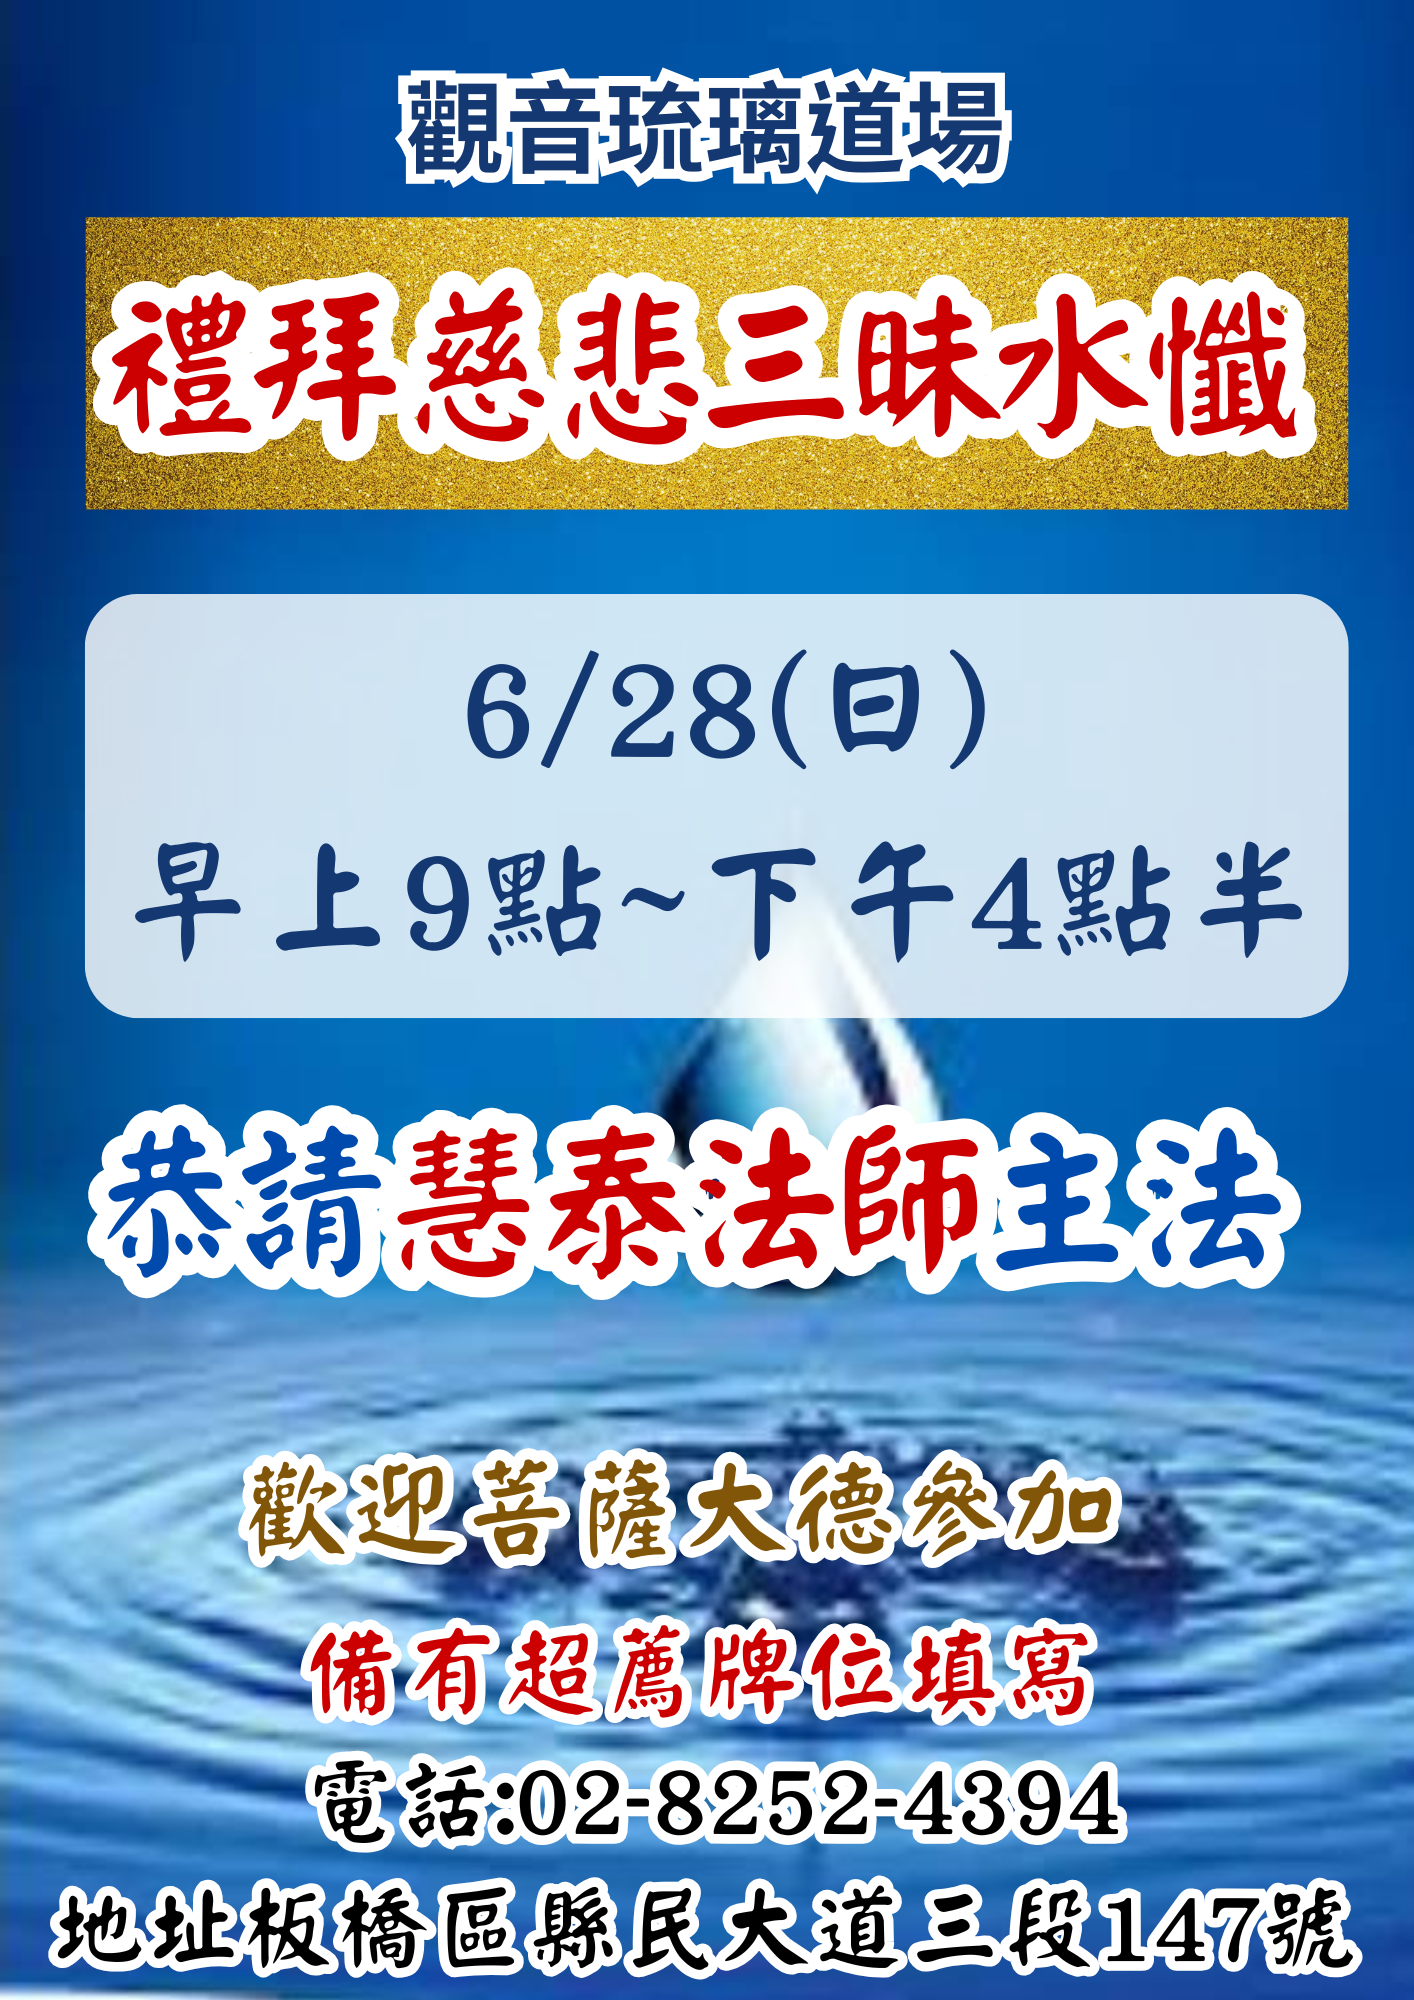
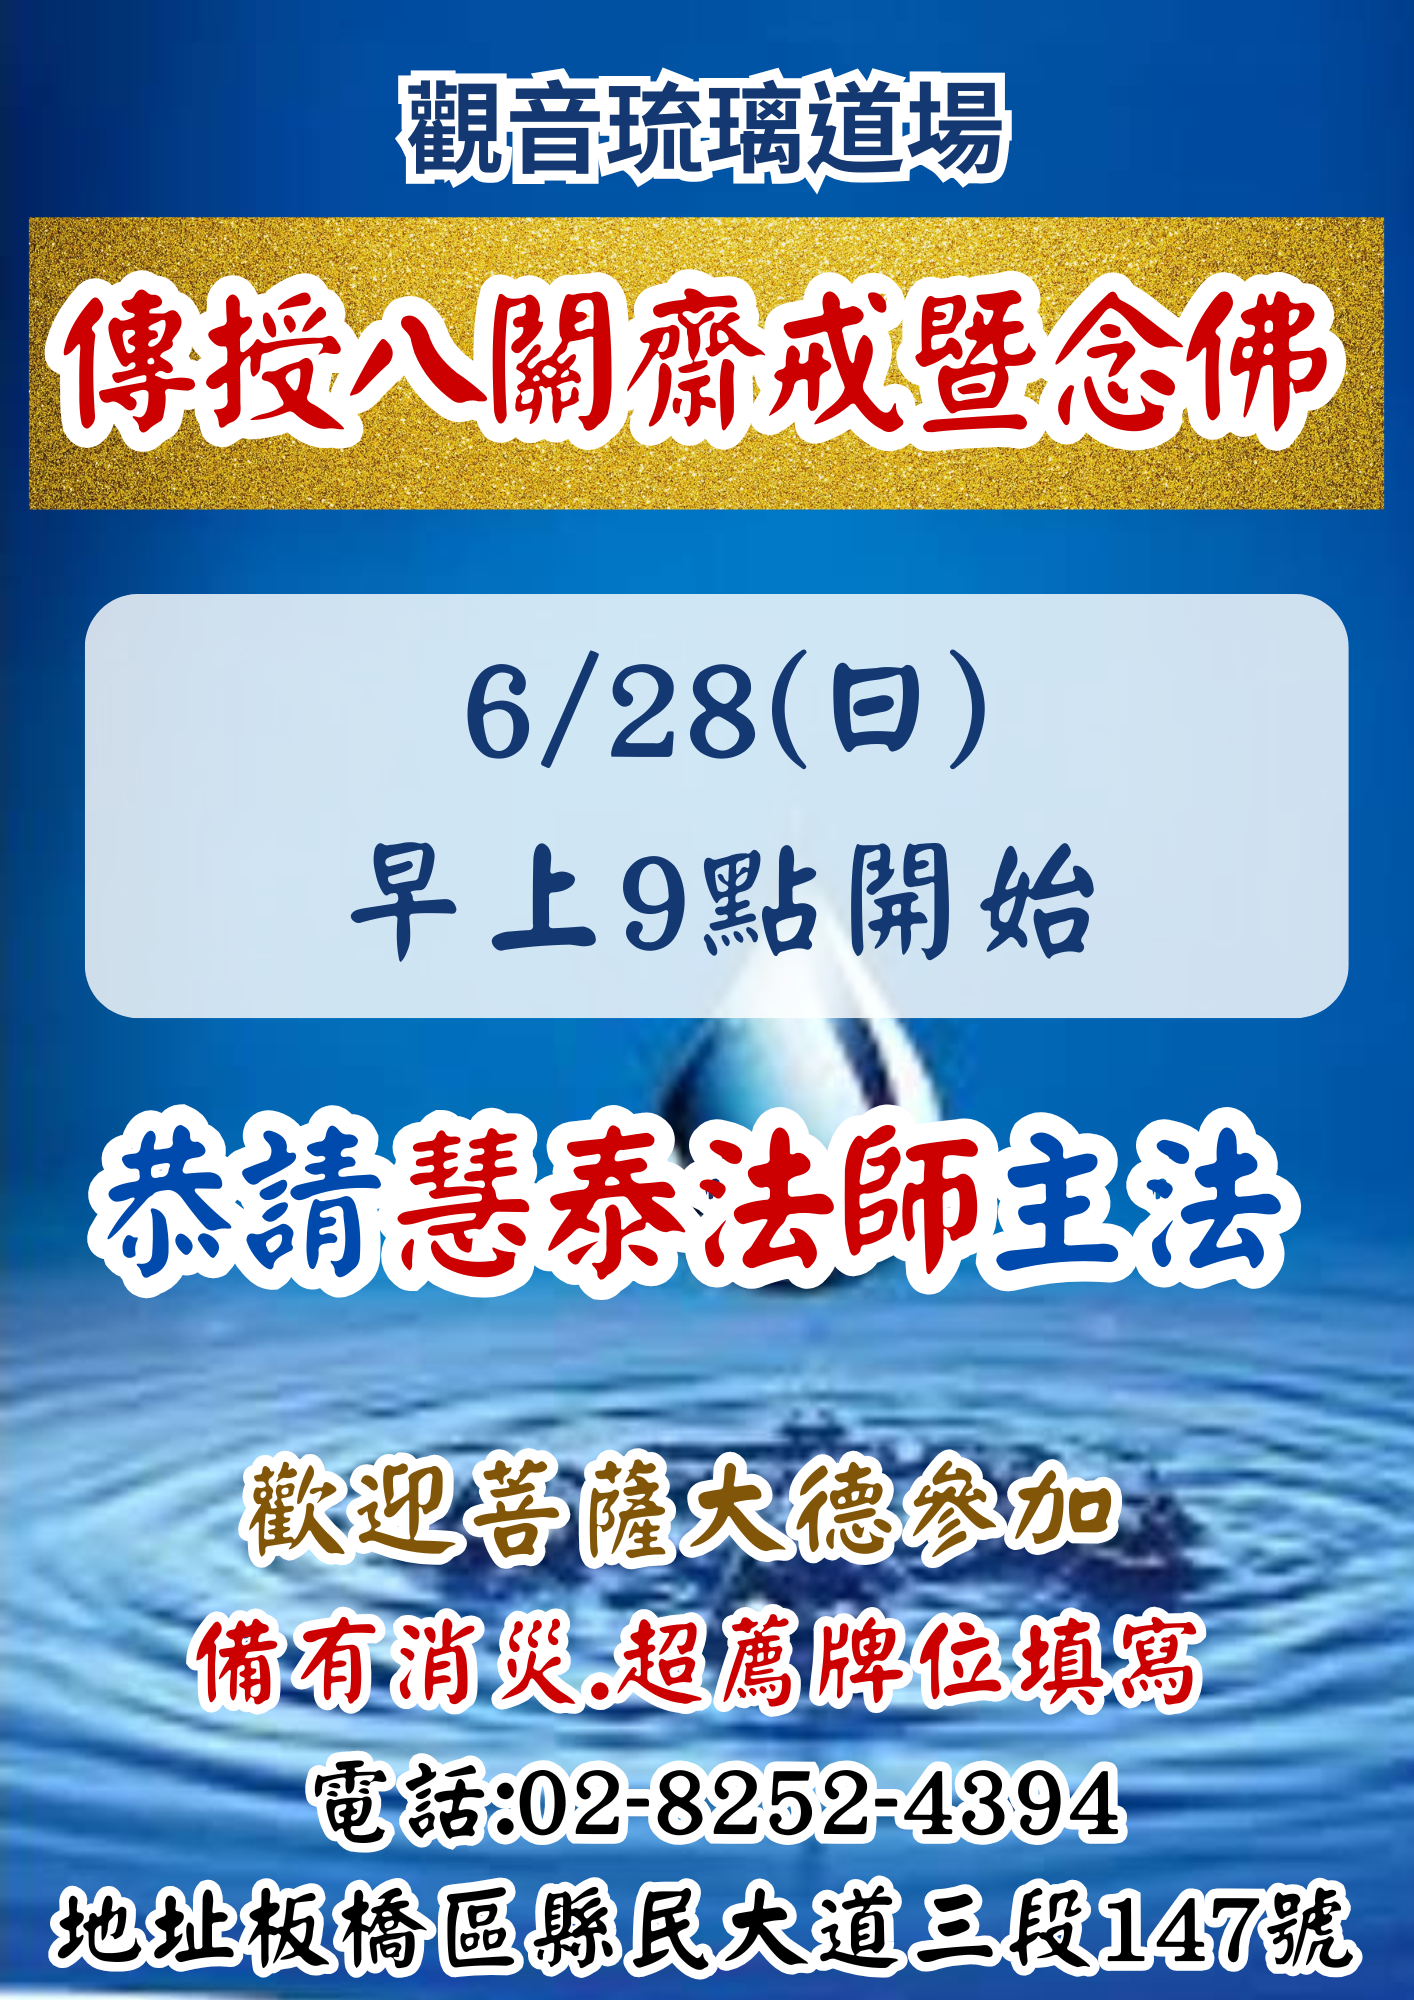
改快訊內容及新增法會海報

diff --git a/index.html b/index.html
@@ -242,8 +242,8 @@ nav{display:none}
 
 <div class="topbar">
   <div class="topbar-track">
-    <a class="topbar-link topbar-signup" href="#">快訊｜<span class="topbar-time">4/6(一)早上9點</span> 慶祝觀世音菩薩聖誕，特舉辦【禮拜八十八洪名寶懺】。(備有消災祈福祿位)，歡迎十方信眾報名參加！</a>
-    <a class="topbar-link topbar-signup" href="#" aria-hidden="true">快訊｜<span class="topbar-time">4/6(一)早上9點</span> 慶祝觀世音菩薩聖誕，特舉辦【禮拜八十八洪名寶懺】。(備有消災祈福祿位)，歡迎十方信眾報名參加！</a>
+    <a class="topbar-link topbar-signup" href="#">快訊｜<span class="topbar-time">4/6(一)早上9點</span> 慶祝觀世音菩薩聖誕，特舉辦【禮拜八十八佛洪名寶懺】。(備有消災祈福祿位)，歡迎十方信眾報名參加！</a>
+    <a class="topbar-link topbar-signup" href="#" aria-hidden="true">快訊｜<span class="topbar-time">4/6(一)早上9點</span> 慶祝觀世音菩薩聖誕，特舉辦【禮拜八十八佛洪名寶懺】。(備有消災祈福祿位)，歡迎十方信眾報名參加！</a>
   </div>
   <div class="topbar-note">快訊可以點擊</div>
 </div>
@@ -581,8 +581,9 @@ const events={
   "2026-03-19":"農曆二月初一共修藥師經暨佛前大供與放生 早上9點",
   "2026-03-29":"清明孝親報恩法會 舉辦冥陽兩利三時繫念大法會 下午1點半(備有超薦牌位)",
   "2026-04-06":"慶祝觀世音菩薩聖誕 舉辦禮拜八十八佛洪名寶懺 早上9點(備有消災祈福牌位)",
+  "2026-05-10":"禮拜慈悲藥師寶懺 早上9點(備有消災超薦牌位)",
   "2026-05-31":"浴佛節冥陽兩利三時繫念大法會 下午1點半(備有超薦牌位)",
-  "2026-06-28":"慈悲三昧水懺 早上9點至下午4點半(備有消災及超薦牌位)",
+  "2026-06-28":"傳授八關齋戒暨念佛 早上9點開始(備有消災及超薦牌位)",
   "2026-08-01":"觀世音菩薩成道日 禮拜八十八佛洪名寶懺 早上9點(備有消災牌位)",
   "2026-08-02":"中元普渡瑜伽焰口法會 下午2點(備有超薦牌位)",
   "2026-09-13":"慈悲地藏寶懺 早上9點至下午4點半(備有消災及超薦牌位)",
@@ -591,7 +592,7 @@ const events={
   "2026-12-13":"瑜伽焰口法會 下午2點(備有超薦牌位)"
 };
 const recurringEvents={
-  "2026-04-02":"【農曆十五】恭誦佛說阿彌陀經 念佛 繞佛 靜坐 佛前大供暨放生 早上9點","2026-04-17":"共修早上9點","2026-05-01":"共修早上9點","2026-05-17":"共修早上9點","2026-05-31":"共修早上9點","2026-06-15":"共修早上9點","2026-06-29":"共修早上9點","2026-07-14":"共修早上9點","2026-07-28":"共修早上9點","2026-08-13":"共修早上9點","2026-08-27":"共修早上9點","2026-09-11":"共修早上9點","2026-09-25":"共修早上9點","2026-10-10":"共修早上9點","2026-10-24":"共修早上9點","2026-11-09":"共修早上9點","2026-11-23":"共修早上9點","2026-12-09":"共修早上9點","2026-12-23":"共修早上9點"
+  "2026-04-02":"【農曆十五】恭誦佛說阿彌陀經 念佛 繞佛 靜坐 佛前大供暨放生 早上9點","2026-04-17":"共修早上9點","2026-05-01":"共修早上9點","2026-05-17":"共修早上9點","2026-06-15":"共修早上9點","2026-06-29":"共修早上9點","2026-07-14":"共修早上9點","2026-07-28":"共修早上9點","2026-08-13":"共修早上9點","2026-08-27":"共修早上9點","2026-09-11":"共修早上9點","2026-09-25":"共修早上9點","2026-10-10":"共修早上9點","2026-10-24":"共修早上9點","2026-11-09":"共修早上9點","2026-11-23":"共修早上9點","2026-12-09":"共修早上9點","2026-12-23":"共修早上9點"
 };
 let current=new Date(2026,2,1);
 const monthParam = getQueryParam('month');

diff --git a/event-signup.html b/event-signup.html
@@ -1,4 +1,4 @@
-<!DOCTYPE html>
+<!DOCTYPE html>
 <html lang="zh-Hant">
 <head>
 <meta charset="UTF-8">
@@ -55,8 +55,8 @@ footer{background:#1f5ea8;color:#fff;text-align:center;padding:28px}
 <body>
 <div class="topbar">
   <div class="topbar-track">
-    <a class="topbar-link topbar-signup" href="#">快訊｜<span class="topbar-time">3/29(日)下午1點半</span> 清明孝親報恩，【冥陽兩利三時繫念大法會】。(備有超薦牌位)，歡迎十方信眾報名參加！</a>
-    <a class="topbar-link topbar-signup" href="#" aria-hidden="true">快訊｜<span class="topbar-time">3/29(日)下午1點半</span> 清明孝親報恩，【冥陽兩利三時繫念大法會】。(備有超薦牌位)，歡迎十方信眾報名參加！</a>
+    <a class="topbar-link topbar-signup" href="#">快訊｜<span class="topbar-time">4/6(一)早上9點</span>慶祝觀世音菩薩聖誕，特舉辦【禮拜八十八佛洪名寶懺】。(備有消災祈福祿位)，歡迎十方信眾報名參加！</a>
+    <a class="topbar-link topbar-signup" href="#" aria-hidden="true">快訊｜<span class="topbar-time">4/6(一)早上9點</span> 慶祝觀世音菩薩聖誕，特舉辦【禮拜八十八佛洪名寶懺】。(備有消災祈福祿位)，歡迎十方信眾報名參加！</a>
   </div>
 </div>
 <header>
@@ -120,6 +120,7 @@ if(date){
     '2026-03-29':'3.29海報.png',
     '2026-04-02':'4.2海報.jpg',
     '2026-04-06':'4.6海報.jpg',
+    '2026-05-10':'5.10海報.png',
     '2026-05-31':'5.31海報.png',
     '2026-06-28':'6.28海報.png',
     '2026-08-01':'8.1海報.jpg',
@@ -132,8 +133,9 @@ if(date){
   const formMap={
     '2026-03-19':'https://forms.gle/SbgcyLzSLgW2j13r8',
     '2026-03-29':'https://forms.gle/ptCJJisfvYWkpr9Z7',
-    '2026-04-02':'',
-    '2026-04-06':'https://docs.google.com/forms/d/e/1FAIpQLSfWmldWRtzPBqtPmlHAEoCrjUtvexVus9KJHwM0kEnQ7IquNw/viewform'
+    '2026-04-02':'https://forms.gle/pMLrrmiwr45twrgN6',
+    '2026-04-06':'https://docs.google.com/forms/d/e/1FAIpQLSfWmldWRtzPBqtPmlHAEoCrjUtvexVus9KJHwM0kEnQ7IquNw/viewform',
+    '2026-05-31':'https://forms.gle/JgCnjxNvRKhTpYMp9',
   };
   if(posterMap[date]){
     poster.src=posterMap[date];

diff --git a/master.html b/master.html
@@ -57,8 +57,8 @@ footer{background:#1f5ea8;color:#fff;text-align:center;padding:28px}
 
 <div class="topbar">
   <div class="topbar-track">
-    <a class="topbar-link topbar-signup" href="#">快訊｜<span class="topbar-time">3/29(日)下午1點半</span> 清明孝親報恩，【冥陽兩利三時繫念大法會】。(備有超薦牌位)，歡迎十方信眾報名參加！</a>
-    <a class="topbar-link topbar-signup" href="#" aria-hidden="true">快訊｜<span class="topbar-time">3/29(日)下午1點半</span> 清明孝親報恩，【冥陽兩利三時繫念大法會】。(備有超薦牌位)，歡迎十方信眾報名參加！</a>
+    <a class="topbar-link topbar-signup" href="#">快訊｜<span class="topbar-time">4/6(一)早上9點</span> 慶祝觀世音菩薩聖誕，特舉辦【禮拜八十八佛洪名寶懺】。(備有消災祈福祿位)，歡迎十方信眾報名參加！</a>
+    <a class="topbar-link topbar-signup" href="#" aria-hidden="true">快訊｜<span class="topbar-time">4/6(一)早上9點</span> 慶祝觀世音菩薩聖誕，特舉辦【禮拜八十八佛洪名寶懺】。(備有消災祈福祿位)，歡迎十方信眾報名參加！</a>
   </div>
 </div>
 

diff --git a/master-chant.html b/master-chant.html
@@ -87,8 +87,8 @@ header{position:static}
 
 <div class="topbar">
   <div class="topbar-track">
-    <a class="topbar-link topbar-signup" href="#">快訊｜<span class="topbar-time">3/29(日)下午1點半</span> 清明孝親報恩，【冥陽兩利三時繫念大法會】。(備有超薦牌位)，歡迎十方信眾報名參加！</a>
-    <a class="topbar-link topbar-signup" href="#" aria-hidden="true">快訊｜<span class="topbar-time">3/29(日)下午1點半</span> 清明孝親報恩，【冥陽兩利三時繫念大法會】。(備有超薦牌位)，歡迎十方信眾報名參加！</a>
+    <a class="topbar-link topbar-signup" href="#">快訊｜<span class="topbar-time">4/6(一)早上9點</span> 慶祝觀世音菩薩聖誕，特舉辦【禮拜八十八佛洪名寶懺】。(備有消災祈福祿位)，歡迎十方信眾報名參加！</a>
+    <a class="topbar-link topbar-signup" href="#" aria-hidden="true">快訊｜<span class="topbar-time">4/6(一)早上9點</span> 慶祝觀世音菩薩聖誕，特舉辦【禮拜八十八佛洪名寶懺】。(備有消災祈福祿位)，歡迎十方信眾報名參加！</a>
   </div>
 </div>
 

diff --git a/master-talk.html b/master-talk.html
@@ -88,8 +88,8 @@ header{position:static}
 
 <div class="topbar">
   <div class="topbar-track">
-    <a class="topbar-link topbar-signup" href="#">快訊｜<span class="topbar-time">3/29(日)下午1點半</span> 清明孝親報恩，【冥陽兩利三時繫念大法會】。(備有超薦牌位)，歡迎十方信眾報名參加！</a>
-    <a class="topbar-link topbar-signup" href="#" aria-hidden="true">快訊｜<span class="topbar-time">3/29(日)下午1點半</span> 清明孝親報恩，【冥陽兩利三時繫念大法會】。(備有超薦牌位)，歡迎十方信眾報名參加！</a>
+    <a class="topbar-link topbar-signup" href="#">快訊｜<span class="topbar-time">4/6(一)早上9點</span> 慶祝觀世音菩薩聖誕，特舉辦【禮拜八十八佛洪名寶懺】。(備有消災祈福祿位)，歡迎十方信眾報名參加！</a>
+    <a class="topbar-link topbar-signup" href="#" aria-hidden="true">快訊｜<span class="topbar-time">4/6(一)早上9點</span> 慶祝觀世音菩薩聖誕，特舉辦【禮拜八十八佛洪名寶懺】。(備有消災祈福祿位)，歡迎十方信眾報名參加！</a>
   </div>
 </div>
 

diff --git a/master-gallery.html b/master-gallery.html
@@ -72,8 +72,8 @@ header{position:static}
 
 <div class="topbar">
   <div class="topbar-track">
-    <a class="topbar-link topbar-signup" href="#">快訊｜<span class="topbar-time">3/29(日)下午1點半</span> 清明孝親報恩，【冥陽兩利三時繫念大法會】。(備有超薦牌位)，歡迎十方信眾報名參加！</a>
-    <a class="topbar-link topbar-signup" href="#" aria-hidden="true">快訊｜<span class="topbar-time">3/29(日)下午1點半</span> 清明孝親報恩，【冥陽兩利三時繫念大法會】。(備有超薦牌位)，歡迎十方信眾報名參加！</a>
+    <a class="topbar-link topbar-signup" href="#">快訊｜<span class="topbar-time">4/6(一)下午9點</span> 慶祝觀世音菩薩聖誕，特舉辦【禮拜八十八佛洪名寶懺】。(備有消災祈福祿位)，歡迎十方信眾報名參加！</a>
+    <a class="topbar-link topbar-signup" href="#" aria-hidden="true">快訊｜<span class="topbar-time">4/6(一)早上9點</span>慶祝觀世音菩薩聖誕，特舉辦【禮拜八十八佛洪名寶懺】。(備有消災祈福祿位)，歡迎十方信眾報名參加！</a>
   </div>
 </div>
 

diff --git a/master-profile.html b/master-profile.html
@@ -74,8 +74,8 @@ header{position:static}
 
 <div class="topbar">
   <div class="topbar-track">
-    <a class="topbar-link topbar-signup" href="#">快訊｜<span class="topbar-time">3/29(日)下午1點半</span> 清明孝親報恩，【冥陽兩利三時繫念大法會】。(備有超薦牌位)，歡迎十方信眾報名參加！</a>
-    <a class="topbar-link topbar-signup" href="#" aria-hidden="true">快訊｜<span class="topbar-time">3/29(日)下午1點半</span> 清明孝親報恩，【冥陽兩利三時繫念大法會】。(備有超薦牌位)，歡迎十方信眾報名參加！</a>
+    <a class="topbar-link topbar-signup" href="#">快訊｜<span class="topbar-time">4/6(一)早上9點</span> 慶祝觀世音菩薩聖誕，特舉辦【禮拜八十八佛洪名寶懺】。(備有消災祈福祿位)，歡迎十方信眾報名參加！</a>
+    <a class="topbar-link topbar-signup" href="#" aria-hidden="true">快訊｜<span class="topbar-time">4/6(一)早上9點</span>慶祝觀世音菩薩聖誕，特舉辦【禮拜八十八佛洪名寶懺】。(備有消災祈福祿位)，歡迎十方信眾報名參加！</a>
   </div>
 </div>
 
